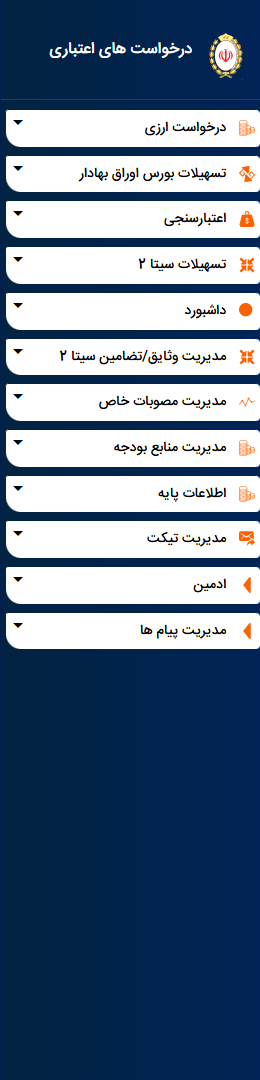
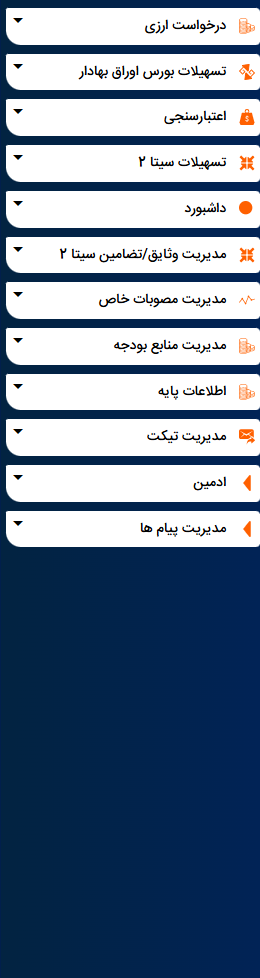
adding-router

Changed region(s): [[0.0, 0.0, 1.0, 0.6135]]

diff --git a/src/App.tsx b/src/App.tsx
@@ -1,4 +1,4 @@
-
+/* 
 import './App.css';
 
 function App() {
@@ -11,4 +11,35 @@ function App() {
   )
 }
 
-export default App
+export default App */
+
+import { BrowserRouter as Router, Routes, Route } from "react-router-dom";
+import "./App.css";
+import Home from "./pages/home/Home";
+
+export default function App() {
+  return (
+    <Router>
+      <div className="app-container">
+        {/* Top Bar */}
+        <header className="top-bar">
+          <img src="/menu/top.png" alt="Top bar" className="top-bar-img" />
+        </header>
+
+        {/* Main area with side menu (right) and routed content (center) */}
+        <main className="content-area">
+          <aside className="side-menu">
+            <img src="/menu/side.png" alt="Side menu" className="side-menu-img" />
+          </aside>
+
+          <section className="page-content">
+            <Routes>
+              <Route path="/" element={<Home />} />
+            {/* Add more routes here */}
+            </Routes>
+          </section>
+        </main>
+      </div>
+    </Router>
+  );
+}

diff --git a/src/App.css b/src/App.css
@@ -1,0 +1,45 @@
+/* Make the whole app right-to-left */
+.app-container {
+  /* direction: rtl; */
+  min-height: 100vh;
+  display: flex;
+  flex-direction: column;
+}
+
+/* Top bar spans full width */
+.top-bar {
+  width: 100%;
+}
+
+.top-bar-img {
+  width: 100%;
+  height: auto;   /* keep aspect ratio */
+  display: block;
+}
+
+/* Main content area: side menu on the right, routed content in center */
+.content-area {
+  flex: 1;
+  display: flex;
+  flex-direction: row-reverse; /* because rtl: side menu stays on right */
+}
+
+/* Right side menu */
+.side-menu {
+  width: 220px;         /* adjust to your image width */
+  flex-shrink: 0;
+  background-color: transparent;
+}
+
+.side-menu-img {
+  width: 100%;
+  height: 100%;
+  object-fit: cover;
+}
+
+/* Center form/page area */
+.page-content {
+  flex: 1;
+  padding: 2rem;
+  background: #f9f9f9;  /* example background */
+}

diff --git a/src/pages/home/Home.tsx b/src/pages/home/Home.tsx
@@ -1,0 +1,11 @@
+export default function Home() {
+    return (
+        <form className="my-form">
+            <h1>فرم نمونه</h1>
+            <label>
+                نام:
+                <input type="text" />
+            </label>
+        </form>
+    );
+}
